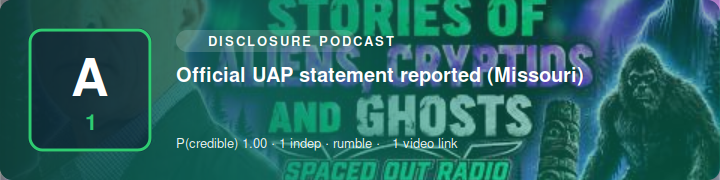
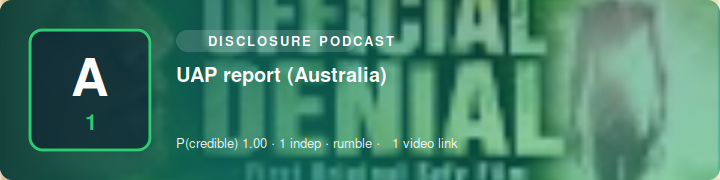
SITREP 2026-08-08 06:00 UTC

diff --git a/index.html b/index.html
@@ -1,1 +1,1 @@
-<!doctype html><meta charset=utf-8><title>Science Bob News — SITREP</title><style>body{font:16px/1.5 system-ui,sans-serif;max-width:760px;margin:2rem auto;padding:0 1rem;color:#111}h1{font-size:1.5rem}h2{margin-top:1.6rem;border-bottom:1px solid #ddd;padding-bottom:.2rem}ul{list-style:none;padding:0}li{margin:.9rem 0}.hl{font-weight:600}.meta{color:#555;font-size:.85rem}.src{font-size:.85rem}.vid{font-size:.85rem;margin-top:.15rem}.card{display:block;max-width:100%;height:auto;border-radius:8px;margin:.4rem 0 .5rem}.upd{background:#fde68a;padding:0 .3rem;border-radius:.2rem;font-size:.75rem}.sub{color:#777;font-size:.85rem}footer{color:#777;font-size:.8rem;margin-top:2rem;border-top:1px solid #ddd;padding-top:.6rem}</style><h1>🛸 Science Bob News</h1><div class="sub">UAP / UFO / USO SITREP · updated 2026-08-08 05:50 UTC · automated</div><h2>Corroborated</h2><ul><li><img class="card" src="https://n4hy.github.io/sciencebobnews-site/card_c_1.svg" alt="" width="720" height="180"><div class="hl">UAP report</div><div class="meta">reliability <b>A1</b> · P(credible)=1.0 · 4 independent source(s) · mastodon</div><div class="src"><a href="https://mastodon.social/@McDonald_69/117054727453918730">@McDonald_69</a> · <a href="https://mstdn.ca/@theyycmonk/117057502795618442">@theyycmonk@mstdn.ca</a></div></li><li><img class="card" src="https://n4hy.github.io/sciencebobnews-site/card_c_2.svg" alt="" width="720" height="180"><div class="hl">UAP report (Europe)</div><div class="meta">reliability <b>A1</b> · P(credible)=1.0 · 2 independent source(s) · mastodon</div><div class="src"><a href="https://infosec.exchange/@n_dimension/117039426780147868">@n_dimension@infosec.exchange</a> · <a href="https://kolektiva.social/@licho/117050791639929326">@licho@kolektiva.social</a></div></li></ul><h2>Developing / unconfirmed</h2><ul><li><img class="card" src="https://n4hy.github.io/sciencebobnews-site/card_d_1.svg" alt="" width="720" height="180"><div class="hl">UAP report</div><div class="meta">reliability <b>A1</b> · P(credible)=1.0 · 1 independent source(s) · mastodon</div><div class="src"><a href="https://mastodon.social/@skeptix_ev/117052902513838254">@skeptix_ev</a></div></li><li><img class="card" src="https://n4hy.github.io/sciencebobnews-site/card_d_2.svg" alt="" width="720" height="180"><div class="hl">UAP report (McMinnville)</div><div class="meta">reliability <b>A1</b> · P(credible)=1.0 · 1 independent source(s) · rumble</div><div class="src"><a href="https://www.youtube.com/watch?v=7OT6uJ0yzVY">@podcast</a></div><div class="vid">📹 <a href="https://www.youtube.com/watch?v=7OT6uJ0yzVY">video</a></div></li><li><img class="card" src="https://n4hy.github.io/sciencebobnews-site/card_d_3.svg" alt="" width="720" height="180"><div class="hl">Official UAP statement reported (America)</div><div class="meta">reliability <b>A1</b> · P(credible)=1.0 · 1 independent source(s) · rumble</div><div class="src"><a href="https://www.youtube.com/watch?v=twRHqZQca6c">@podcast</a></div><div class="vid">📹 <a href="https://www.youtube.com/watch?v=twRHqZQca6c">video</a></div></li><li><img class="card" src="https://n4hy.github.io/sciencebobnews-site/card_d_4.svg" alt="" width="720" height="180"><div class="hl">Official UAP statement reported (Missouri)</div><div class="meta">reliability <b>A1</b> · P(credible)=1.0 · 1 independent source(s) · rumble</div><div class="src"><a href="https://www.youtube.com/watch?v=m5wlC58ZJ1U">@podcast</a></div><div class="vid">📹 <a href="https://www.youtube.com/watch?v=m5wlC58ZJ1U">video</a></div></li><li><img class="card" src="https://n4hy.github.io/sciencebobnews-site/card_d_5.svg" alt="" width="720" height="180"><div class="hl">Official UAP statement reported (International)</div><div class="meta">reliability <b>A1</b> · P(credible)=1.0 · 1 independent source(s) · rumble</div><div class="src"><a href="https://www.youtube.com/watch?v=DD4iB7rkmew">@podcast</a></div><div class="vid">📹 <a href="https://www.youtube.com/watch?v=DD4iB7rkmew">video</a></div></li></ul><footer><b>Powered by Science Bob News.</b> Free to use with credit (see LICENSE). Headlines are factual restatements in the engine's own words; click sources for originals. Single-origin reposts collapse to one source; prosaic candidates flagged where offered.</footer>
+<!doctype html><meta charset=utf-8><title>Science Bob News — SITREP</title><style>body{font:16px/1.5 system-ui,sans-serif;max-width:760px;margin:2rem auto;padding:0 1rem;color:#111}h1{font-size:1.5rem}h2{margin-top:1.6rem;border-bottom:1px solid #ddd;padding-bottom:.2rem}ul{list-style:none;padding:0}li{margin:.9rem 0}.hl{font-weight:600}.meta{color:#555;font-size:.85rem}.src{font-size:.85rem}.vid{font-size:.85rem;margin-top:.15rem}.card{display:block;max-width:100%;height:auto;border-radius:8px;margin:.4rem 0 .5rem}.upd{background:#fde68a;padding:0 .3rem;border-radius:.2rem;font-size:.75rem}.sub{color:#777;font-size:.85rem}footer{color:#777;font-size:.8rem;margin-top:2rem;border-top:1px solid #ddd;padding-top:.6rem}</style><h1>🛸 Science Bob News</h1><div class="sub">UAP / UFO / USO SITREP · updated 2026-08-08 06:00 UTC · automated</div><h2>Corroborated</h2><ul><li><img class="card" src="https://n4hy.github.io/sciencebobnews-site/card_c_1.svg" alt="" width="720" height="180"><div class="hl">UAP report</div><div class="meta">reliability <b>A1</b> · P(credible)=1.0 · 4 independent source(s) · mastodon</div><div class="src"><a href="https://mastodon.social/@McDonald_69/117054727453918730">@McDonald_69</a> · <a href="https://mstdn.ca/@theyycmonk/117057502795618442">@theyycmonk@mstdn.ca</a></div></li><li><img class="card" src="https://n4hy.github.io/sciencebobnews-site/card_c_2.svg" alt="" width="720" height="180"><div class="hl">UAP report (Europe)</div><div class="meta">reliability <b>A1</b> · P(credible)=1.0 · 2 independent source(s) · mastodon</div><div class="src"><a href="https://infosec.exchange/@n_dimension/117039426780147868">@n_dimension@infosec.exchange</a> · <a href="https://kolektiva.social/@licho/117050791639929326">@licho@kolektiva.social</a></div></li></ul><h2>Developing / unconfirmed</h2><ul><li><img class="card" src="https://n4hy.github.io/sciencebobnews-site/card_d_1.svg" alt="" width="720" height="180"><div class="hl">UAP report</div><div class="meta">reliability <b>A1</b> · P(credible)=1.0 · 1 independent source(s) · mastodon</div><div class="src"><a href="https://mastodon.social/@skeptix_ev/117052902513838254">@skeptix_ev</a></div></li><li><img class="card" src="https://n4hy.github.io/sciencebobnews-site/card_d_2.svg" alt="" width="720" height="180"><div class="hl">UAP report (McMinnville)</div><div class="meta">reliability <b>A1</b> · P(credible)=1.0 · 1 independent source(s) · rumble</div><div class="src"><a href="https://www.youtube.com/watch?v=7OT6uJ0yzVY">@podcast</a></div><div class="vid">📹 <a href="https://www.youtube.com/watch?v=7OT6uJ0yzVY">video</a></div></li><li><img class="card" src="https://n4hy.github.io/sciencebobnews-site/card_d_3.svg" alt="" width="720" height="180"><div class="hl">UAP whistleblower testimony reported (American)</div><div class="meta">reliability <b>A1</b> · P(credible)=1.0 · 1 independent source(s) · rumble</div><div class="src"><a href="https://www.youtube.com/watch?v=LPtMaGpuK-M">@podcast</a></div><div class="vid">📹 <a href="https://www.youtube.com/watch?v=LPtMaGpuK-M">video</a></div></li><li><img class="card" src="https://n4hy.github.io/sciencebobnews-site/card_d_4.svg" alt="" width="720" height="180"><div class="hl">UAP report (Australia)</div><div class="meta">reliability <b>A1</b> · P(credible)=1.0 · 1 independent source(s) · rumble</div><div class="src"><a href="https://www.youtube.com/watch?v=ZegQhxJrJGo">@podcast</a></div><div class="vid">📹 <a href="https://www.youtube.com/watch?v=ZegQhxJrJGo">video</a></div></li><li><img class="card" src="https://n4hy.github.io/sciencebobnews-site/card_d_5.svg" alt="" width="720" height="180"><div class="hl">Official UAP statement reported (America)</div><div class="meta">reliability <b>A1</b> · P(credible)=1.0 · 1 independent source(s) · rumble</div><div class="src"><a href="https://www.youtube.com/watch?v=twRHqZQca6c">@podcast</a></div><div class="vid">📹 <a href="https://www.youtube.com/watch?v=twRHqZQca6c">video</a></div></li></ul><footer><b>Powered by Science Bob News.</b> Free to use with credit (see LICENSE). Headlines are factual restatements in the engine's own words; click sources for originals. Single-origin reposts collapse to one source; prosaic candidates flagged where offered.</footer>

diff --git a/sitrep.md b/sitrep.md
@@ -1,5 +1,5 @@
 # 🛸 Science Bob News — UAP / UFO / USO SITREP
-*Updated 2026-08-08 05:50 UTC · auto-generated · sources credited & linked · reliability ratings are automated, not editorial*
+*Updated 2026-08-08 06:00 UTC · auto-generated · sources credited & linked · reliability ratings are automated, not editorial*
 
 ## Corroborated
 
@@ -24,20 +24,20 @@
    [@podcast](https://www.youtube.com/watch?v=7OT6uJ0yzVY)  
    📹 [video](https://www.youtube.com/watch?v=7OT6uJ0yzVY)
 
-![Official UAP statement reported (America)](https://n4hy.github.io/sciencebobnews-site/card_d_3.svg)
-3. Official UAP statement reported (America) — reliability A1 · 1 source(s)  
+![UAP whistleblower testimony reported (American)](https://n4hy.github.io/sciencebobnews-site/card_d_3.svg)
+3. UAP whistleblower testimony reported (American) — reliability A1 · 1 source(s)  
+   [@podcast](https://www.youtube.com/watch?v=LPtMaGpuK-M)  
+   📹 [video](https://www.youtube.com/watch?v=LPtMaGpuK-M)
+
+![UAP report (Australia)](https://n4hy.github.io/sciencebobnews-site/card_d_4.svg)
+4. UAP report (Australia) — reliability A1 · 1 source(s)  
+   [@podcast](https://www.youtube.com/watch?v=ZegQhxJrJGo)  
+   📹 [video](https://www.youtube.com/watch?v=ZegQhxJrJGo)
+
+![Official UAP statement reported (America)](https://n4hy.github.io/sciencebobnews-site/card_d_5.svg)
+5. Official UAP statement reported (America) — reliability A1 · 1 source(s)  
    [@podcast](https://www.youtube.com/watch?v=twRHqZQca6c)  
    📹 [video](https://www.youtube.com/watch?v=twRHqZQca6c)
-
-![Official UAP statement reported (Missouri)](https://n4hy.github.io/sciencebobnews-site/card_d_4.svg)
-4. Official UAP statement reported (Missouri) — reliability A1 · 1 source(s)  
-   [@podcast](https://www.youtube.com/watch?v=m5wlC58ZJ1U)  
-   📹 [video](https://www.youtube.com/watch?v=m5wlC58ZJ1U)
-
-![Official UAP statement reported (International)](https://n4hy.github.io/sciencebobnews-site/card_d_5.svg)
-5. Official UAP statement reported (International) — reliability A1 · 1 source(s)  
-   [@podcast](https://www.youtube.com/watch?v=DD4iB7rkmew)  
-   📹 [video](https://www.youtube.com/watch?v=DD4iB7rkmew)
 
 ---
 *Powered by Science Bob News. Free to use with credit (see LICENSE). Headlines are factual restatements in the engine's own words — click through to the linked sources for originals. Reposts of a single origin are collapsed to one source; candidate prosaic explanations are flagged where offered.*
